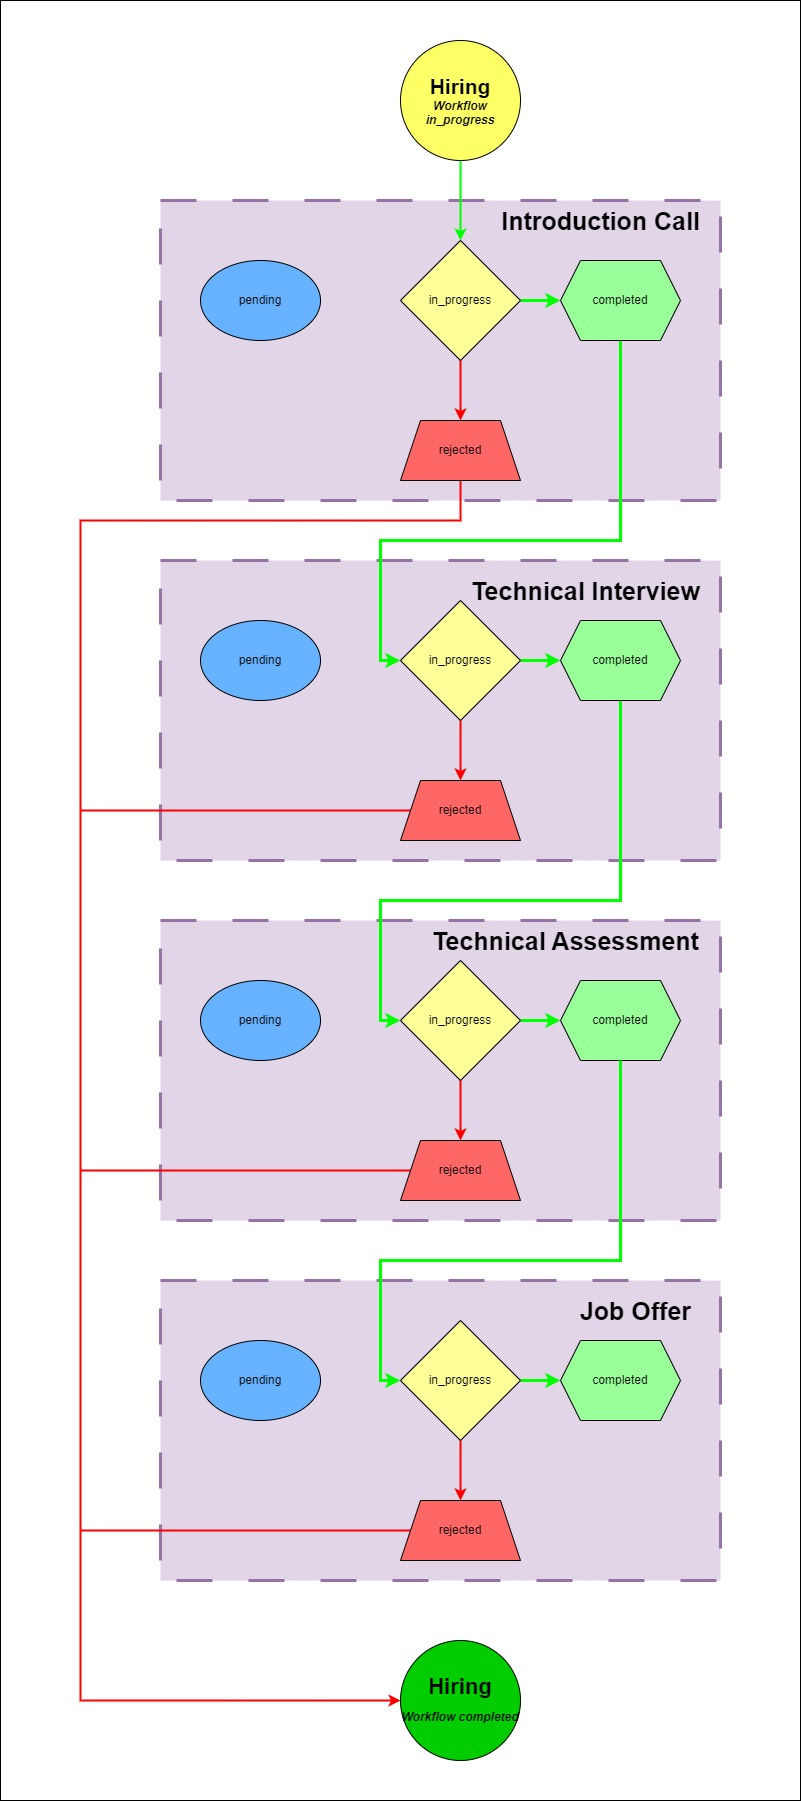
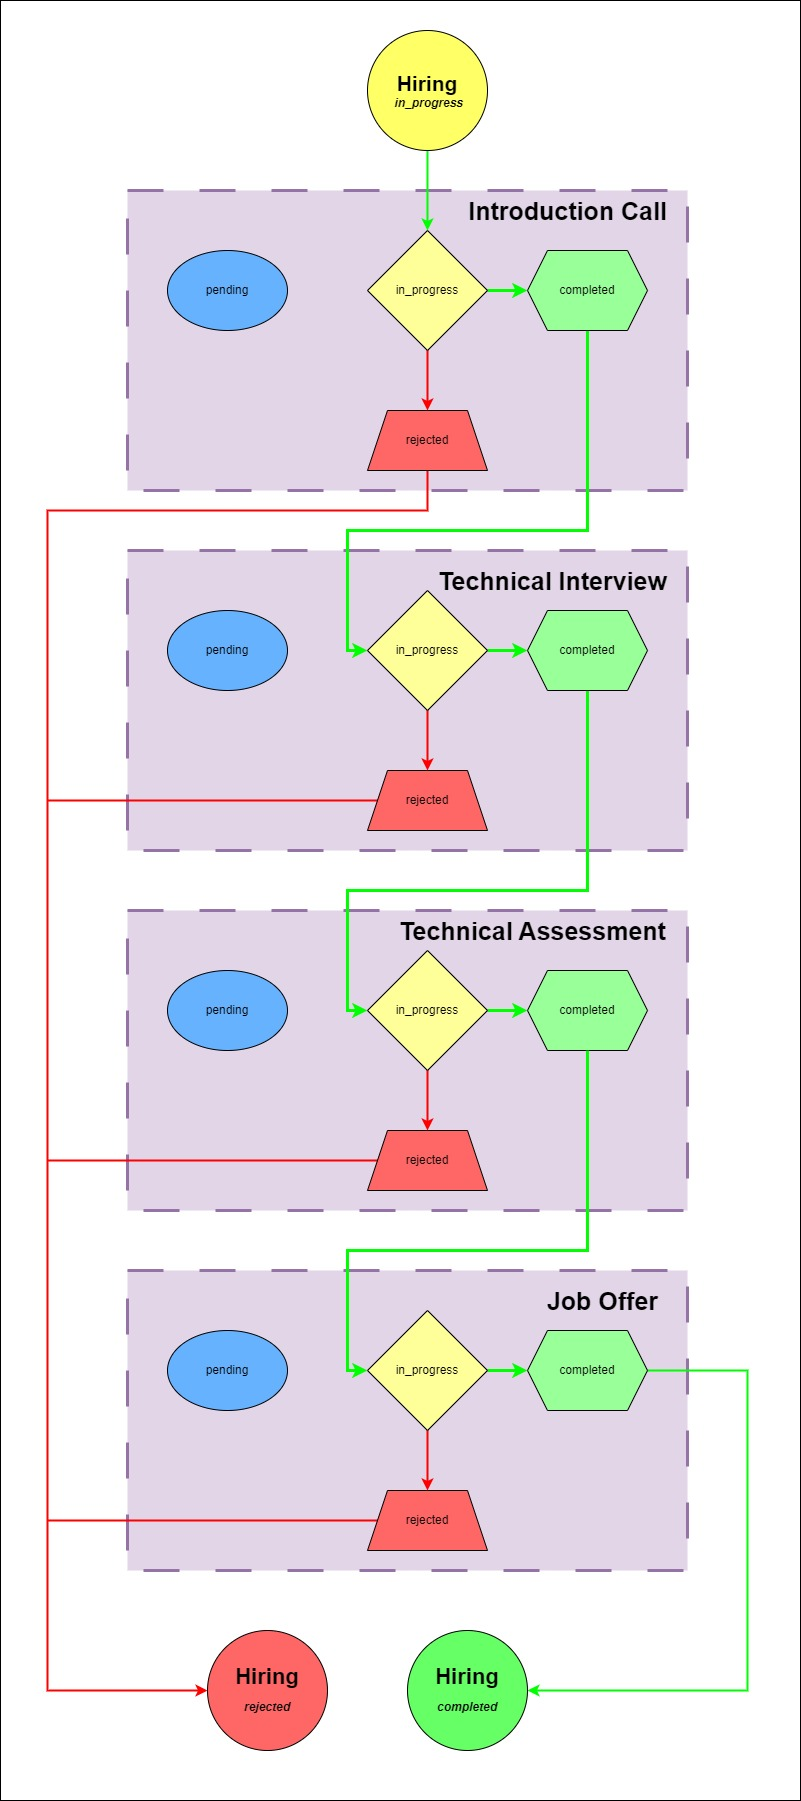
Updated drawio diagrams and readme file

Changed region(s): [[0.0936, 0.0, 0.9363, 0.995], [0.0312, 0.2798, 0.0624, 0.9328]]

diff --git a/README.md b/README.md
@@ -39,13 +39,14 @@ The overall design concept is depicted in below diagram.
 
 ![StateEngineDesign](design/StateEngine_Design.jpg)
 
-flow:
-   
-   - When we start the 'Hiring' to 'in_progress' state , the first task auto trigger and moves to 'in_progress'.
-   - But all other tasks like Technical Interview, Assignment,Offer are in 'pending' by default.
-   - When the 'Call' changes its state from 'in_progres' to 'completed', it trigger the next task 'technical interview ' to 'in_progress'.
-   - Likely , at the end when the last task  'offer' change its state from 'in_progess' to 'completed' , and workflow 'hiring'
-     changes it state form 'in_progress' to 'complete'.
+### Design Concepts
+
+- Workflow and Tasks have four different valid states - pending,in_progress,rejected and completed
+- Default state of all Tasks is pending.
+- When we start the 'Hiring' to 'in_progress' state , the first task auto trigger and moves to 'in_progress'.
+- When the 'Introduction Call' task changes its state from 'in_progres' to 'completed', it trigger the next task 'Technical interview ' to 'in_progress'.
+- Likely , at the end when the last task  'Job offer' change its state from 'in_progess' to 'completed' , the workflow 'hiring' changes it state form 'in_progress' to 'completed'.
+- If the state of any of the tasks is rejected then it will move the state of overall workflow also to rejected .The state of subsequent tasks will remain in its default value of pending.
 
 
 ## System Pre-requisites
@@ -148,6 +149,22 @@ flow:
         workflow.refresh_from_db()
         print(workflow.state) # Expected output: 'completed'
 
+11. Inorder to test the functionality of rejected state , mark any one of the tasks as rejected and verify
+
+   
+        update_task_state(task2, "rejected")
+    
+        task2.refresh_from_db()
+        task3.refresh_from_db()
+        task4.refresh_from_db()
+        workflow.refresh_from_db()
+
+        print(task2.state) # Expected output: 'rejected'
+        print(task3.state) # Expected output: 'pending'
+        print(task4.state) # Expected output: 'pending'
+        print(workflow.state) # Expected output: 'rejected'
+
+
 ### API Endpoints(Testing with Postman)
 
 1. Create Workflow
@@ -177,10 +194,8 @@ flow:
 # Potential Improvements:
 
 1. UI to handle create,update,delete task, workflows,links.
-2. What will happens if there is two work flows , like once the hiring done it should auto trigger the next workflow onboarding .
-3. A logging system like notifications/email to the admin whenever there is a change in task state and once the workflow completes.
-4. Can on task have multiple subtasks and states ?
-5. we can use django-fsm for state machine while creating models.
+2. A logging system like notifications/email to the admin whenever there is a change in task state and once the state of workflow changes.
+3. we can use django-fsm for state machine while creating models.
 
 
 
